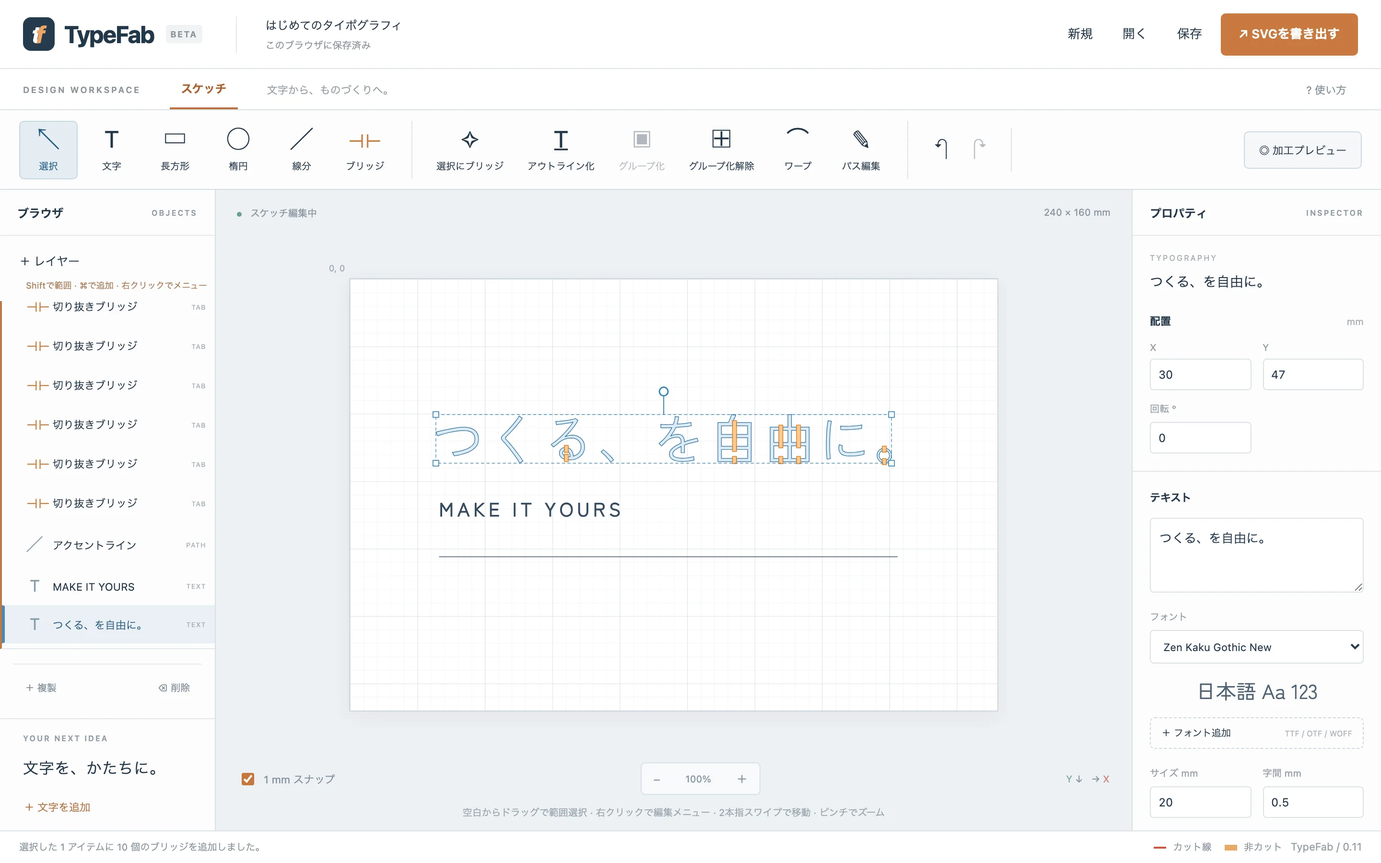
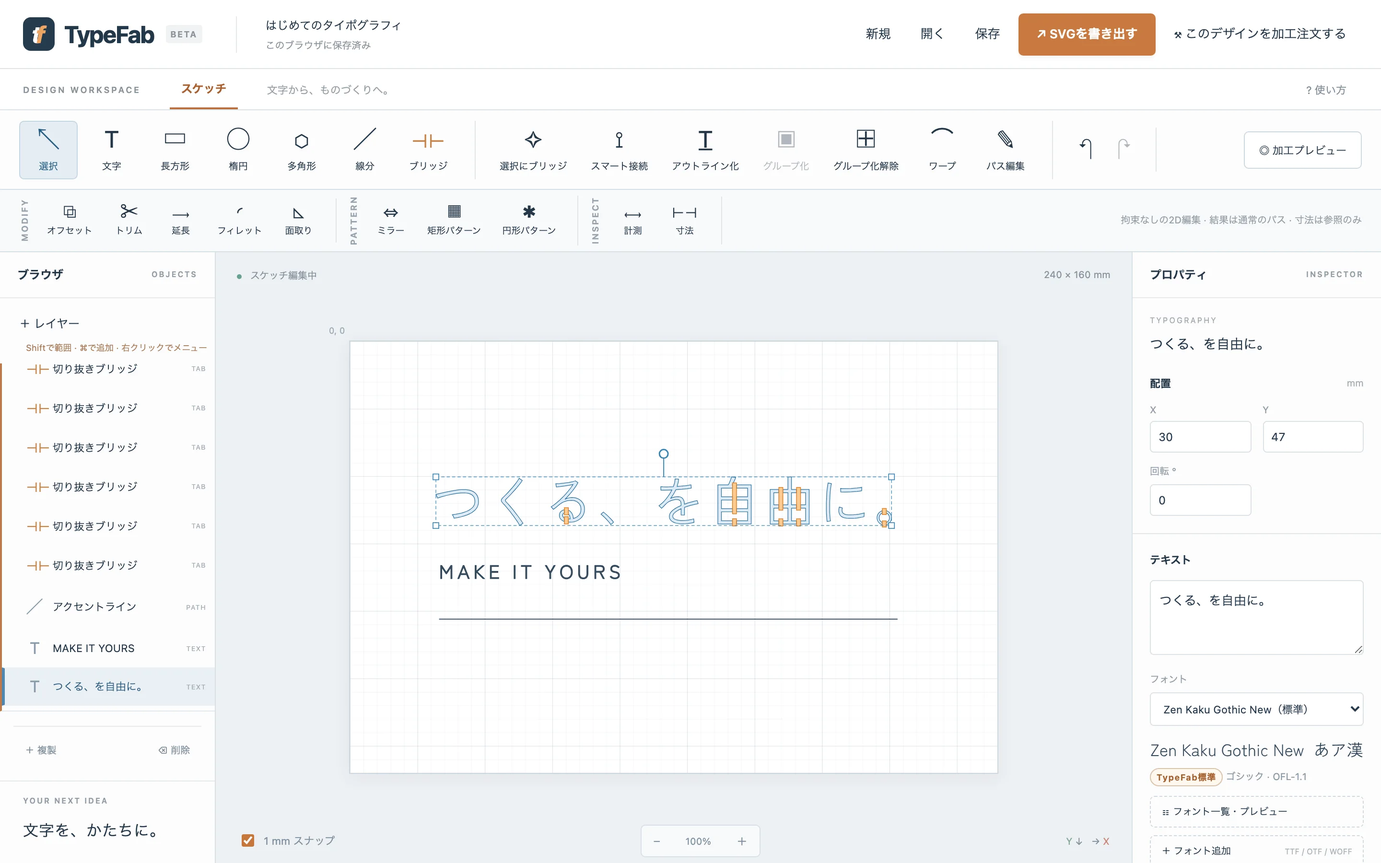
Update the landing page for fonts, Smart Connect, 2D CAD and the bookmark preview
Fresh screenshots of the current editor (two-row toolbar, font gallery,
Smart Connect and circular-pattern previews) and the order page mock-up;
new showcase tabs, workflow and footer copy; ordering stays Coming Soon.

diff --git a/index.html b/index.html
@@ -50,7 +50,7 @@
           <h1>Turn words into laser-cuttable designs.</h1>
           <p class="lede">
             <strong>文字を、切れるデザインへ。</strong>
-            入力した文字を、レーザー加工可能なSVGへ。日本語フォント、レイアウト、ブリッジ、ベクター編集まで、ブラウザだけで完結します。
+            入力した文字を、レーザー加工可能なSVGへ。日本語フォント8書体、レイアウト、ブリッジ、スマート接続、ベクター編集、2D CADまで、ブラウザだけで完結します。
           </p>
           <div class="cta-row">
             <a class="button primary" href="./app/" data-editor>TypeFabを開く <span aria-hidden="true">→</span></a>
@@ -61,9 +61,9 @@
         <div class="wrap wide">
           <figure class="window hero-window">
             <div class="window-bar"><span></span><span></span><span></span><em>fooping-tech.github.io/TypeFab/app/</em></div>
-            <img src="/landing/hero.webp" width="2880" height="1800" alt="TypeFabのエディタ画面。「つくる、を自由に。」という文字に自動ブリッジが付き、右側のプロパティでフォントとサイズを編集している" fetchpriority="high" decoding="async" />
+            <img src="/landing/hero.webp" width="2880" height="1800" alt="TypeFabのエディタ画面。「つくる、を自由に。」という文字に自動ブリッジが付き、上部に作成・ブリッジ・スマート接続・ワープ・パス編集と2D CADのツールバー、右側のプロパティでフォントを編集している" fetchpriority="high" decoding="async" />
           </figure>
-          <figcaption class="caption">実際のTypeFabの画面（Chromium・1440 px）。文字「自」「由」「る」の閉じた部分に、自動ブリッジ（オレンジ）が追加されています。</figcaption>
+          <figcaption class="caption">実際のTypeFabの画面（Chromium・1440 px、2026-09-15）。文字「自」「由」「る」の閉じた部分に自動ブリッジ（オレンジ）が追加され、2段目のツールバーに2D CADツールが並んでいます。</figcaption>
         </div>
       </section>
 
@@ -98,17 +98,19 @@
               <button role="tab" aria-selected="false" data-tab="layout">Layout</button>
               <button role="tab" aria-selected="false" data-tab="vector">Vector Editing</button>
               <button role="tab" aria-selected="false" data-tab="bridge">Bridge</button>
+              <button role="tab" aria-selected="false" data-tab="connect">Smart Connect</button>
+              <button role="tab" aria-selected="false" data-tab="cad">2D CAD</button>
               <button role="tab" aria-selected="false" data-tab="shapes">Shapes</button>
               <button role="tab" aria-selected="false" data-tab="export">SVG Export</button>
             </div>
             <div class="panels">
               <article class="panel" role="tabpanel" data-panel="text">
                 <figure class="shot"><img src="/landing/hero.webp" width="2880" height="1800" alt="文字を入力して編集しているTypeFabの画面" loading="lazy" decoding="async" /></figure>
-                <div class="panel-text"><h3>文字を打つだけ</h3><p>テキストを入力すると、その場で輪郭になります。ダブルクリックでキャンバス上の編集、サイズ・字間・長体・平体、縦書き（OpenType vert/vrt2）に対応。</p></div>
+                <div class="panel-text"><h3>文字を打つだけ</h3><p>テキストを入力すると、その場で輪郭になります。ダブルクリックでキャンバス上の編集、サイズ・字間・長体・平体、縦書き（OpenType vert/vrt2）に対応。1文字ずつ・部位ごとのグループ化解除で、文字の一部だけを動かすこともできます。</p></div>
               </article>
               <article class="panel" role="tabpanel" data-panel="fonts" hidden>
-                <figure class="shot portrait"><img src="/landing/inspector.webp" width="1040" height="2672" alt="フォント選択と文字設定のプロパティパネル" loading="lazy" decoding="async" /></figure>
-                <div class="panel-text"><h3>日本語フォントを同梱</h3><p>Zen Kaku Gothic New と しっぽり明朝 を同梱（SIL OFL）。手元の TTF / OTF / WOFF も追加できます。フォントは端末の外に送信しません。</p></div>
+                <figure class="shot portrait"><img src="/landing/fonts.webp" width="1440" height="2124" alt="フォント一覧ダイアログ。ゴシック・明朝・丸ゴシック・ディスプレイ・手書き・ドットの8書体が、それぞれ実際の字形でプレビューされている" loading="lazy" decoding="async" /></figure>
+                <div class="panel-text"><h3>日本語フォント8書体を同梱</h3><p>Zen Kaku Gothic New、しっぽり明朝、Zen Maru Gothic、Dela Gothic One、RocknRoll One、Kaisei Decol、Zen Kurenaido、DotGothic16。すべて SIL Open Font License 1.1 で、ライセンス本文を同梱しています。選んだフォントだけを読み込み、一覧は各フォントの実際の字形でプレビュー。手元の TTF / OTF / WOFF も追加できます。フォントは端末の外に送信しません。</p></div>
               </article>
               <article class="panel" role="tabpanel" data-panel="layout" hidden>
                 <figure class="shot"><img src="/landing/warp.webp" width="3820" height="2672" alt="文字にArc Upのワープを掛けているキャンバス" loading="lazy" decoding="async" /></figure>
@@ -122,9 +124,17 @@
                 <figure class="shot"><img src="/landing/bridge-sketch.webp" width="1440" height="520" alt="る・自・由の閉じた部分にオレンジ色のブリッジが付いた状態" loading="lazy" decoding="async" /></figure>
                 <div class="panel-text"><h3>ブリッジ</h3><p>「選択にブリッジ」で穴を検出し、島と外側をつなぐ帯を自動追加。手動ブリッジは任意の位置・角度で置けます。幅・高さ・回転を後から調整できます。</p></div>
               </article>
+              <article class="panel" role="tabpanel" data-panel="connect" hidden>
+                <figure class="shot"><img src="/landing/smart-connect.webp" width="2428" height="1274" alt="スマート接続のプレビュー。「つくる、を自由に。」の文字どうしがオレンジの接続形状でつながり、右側のパネルに幅・最大距離・スタイルと「部品 11 → 1」の表示" loading="lazy" decoding="async" /></figure>
+                <div class="panel-text"><h3>スマート接続</h3><p>ステンシルとは逆に、文字そのものを1枚で切り出したいときに。離れた文字や文字内の部位を接続形状でつなぎ、1つの閉じた輪郭にします。幅・最大距離、Smooth / Tapered / Rounded / Straight のスタイル、日本語の筆画方向を優先する候補選び。確定前に接続の移動・削除・追加・候補の切り替えができ、確定後は通常のパスとして編集できます。</p></div>
+              </article>
+              <article class="panel" role="tabpanel" data-panel="cad" hidden>
+                <figure class="shot"><img src="/landing/cad.webp" width="2428" height="1274" alt="円形パターンのプレビュー。六角形を中心のまわりに6個並べるゴーストが表示され、右側のパネルに中心・個数・角度の入力" loading="lazy" decoding="async" /></figure>
+                <div class="panel-text"><h3>2D CAD</h3><p>正多角形、ミラー、矩形／円形パターン、オフセット、トリム・延長、フィレット・面取り、計測、参照寸法。拘束なしの2D編集で、結果は通常のパスになります。寸法は図面上の参照のみで、SVGには出力しません。</p></div>
+              </article>
               <article class="panel" role="tabpanel" data-panel="shapes" hidden>
-                <figure class="shot strip"><img src="/landing/toolbar.webp" width="2880" height="166" alt="選択・文字・長方形・楕円・線分・ブリッジ・アウトライン化・ワープ・パス編集のツールバー" loading="lazy" decoding="async" /></figure>
-                <div class="panel-text"><h3>図形と図形演算</h3><p>長方形（フィレット付き）、楕円、線分。結合・切り抜き・交差・XOR で文字と図形を組み合わせ、1つのカット形状にします。SVGファイルの読み込みにも対応。</p></div>
+                <figure class="shot strip"><img src="/landing/toolbar.webp" width="2880" height="294" alt="選択・文字・長方形・楕円・多角形・線分・ブリッジ・スマート接続・アウトライン化・ワープ・パス編集と、オフセット・トリム・延長・フィレット・面取り・ミラー・パターン・計測・寸法のツールバー" loading="lazy" decoding="async" /></figure>
+                <div class="panel-text"><h3>図形と図形演算</h3><p>長方形（フィレット付き）、楕円、正多角形、線分。結合・切り抜き・交差・XOR で文字と図形を組み合わせ、1つのカット形状にします。SVGファイルの読み込み（path / rect / circle / ellipse / line / polyline / polygon、transform、Inkscapeレイヤー）にも対応。</p></div>
               </article>
               <article class="panel" role="tabpanel" data-panel="export" hidden>
                 <figure class="shot"><img src="/landing/preview.webp" width="3820" height="2672" alt="加工プレビューで赤いカット線を表示したキャンバス" loading="lazy" decoding="async" /></figure>
@@ -142,10 +152,10 @@
           <ol class="workflow">
             <li><span class="num">01</span><h3>TYPE</h3><p>文字を入力する</p></li>
             <li><span class="num">02</span><h3>DESIGN</h3><p>フォントを選び、レイアウトを整える</p></li>
-            <li><span class="num">03</span><h3>BRIDGE</h3><p>閉じた形をレーザーカットできる形にする</p></li>
+            <li><span class="num">03</span><h3>BRIDGE / CONNECT</h3><p>閉じた形にブリッジを付ける。文字自体を切り出すならスマート接続で一体化する</p></li>
             <li><span class="num">04</span><h3>PREVIEW</h3><p>最終的なカット線を確認する</p></li>
             <li><span class="num">05</span><h3>EXPORT</h3><p>クリーンなSVGを書き出す</p></li>
-            <li class="soon"><span class="num">06</span><h3>ORDER <span class="badge">Coming Soon</span></h3><p>そのまま加工を依頼する（注文ページは実装済み。加工サービスの提供開始まで利用できません）</p></li>
+            <li class="soon"><span class="num">06</span><h3>ORDER <span class="badge">Coming Soon</span></h3><p>そのまま加工を依頼する（注文ページは完成イメージのプレビュー付きで実装済み。加工サービスの提供開始まで決済はできません）</p></li>
           </ol>
         </div>
       </section>
@@ -161,6 +171,19 @@
             <figure class="shot"><img src="/landing/bridge-cut.webp" width="1440" height="520" alt="加工プレビュー。赤いカット線がブリッジの位置で途切れ、帯の側面を含む輪郭になっている" loading="lazy" decoding="async" /><figcaption>加工プレビュー：赤線がSVGに出力されるカット線です。</figcaption></figure>
           </div>
           <p class="fine">「切り残しなし」の検査は、閉じた輪郭にブリッジの隙間があるかを確認するものです。材料の連結性や物理的な強度を保証するものではありません。材料・厚さに応じて幅を調整し、テスト加工してください。</p>
+          <div class="two-col align connect">
+            <div>
+              <h3>ステンシルではなく、文字を切り出すなら。</h3>
+              <p class="lede">ブリッジは「文字の形に穴をあける」ための機能です。文字そのものを1枚の板として切り出したいときは、<strong>スマート接続</strong>が離れた文字や部位を接続形状でつなぎ、1つの閉じた輪郭にします。</p>
+              <ul class="feature-list">
+                <li><b>接続の候補</b> 最短距離だけでなく、画の端や向きを見て自然な位置を選びます。日本語は筆画の延長を優先</li>
+                <li><b>スタイル</b> Smooth・Tapered・Rounded・Straight を自動または手動で。幅と最大距離は数値で指定</li>
+                <li><b>確定前の調整</b> 接続の移動・両端の変更・幅・曲率・削除・次の候補・手動追加。未接続があれば確定できません</li>
+                <li><b>結果</b> 1つの固定パス。Undo 1回で元の文字に戻り、パス編集・ワープ・SVG出力はそのまま</li>
+              </ul>
+            </div>
+            <figure class="shot"><img src="/landing/smart-connect.webp" width="2428" height="1274" alt="スマート接続で「つくる、を自由に。」が10本の接続で1つの部品になったプレビュー" loading="lazy" decoding="async" /><figcaption>スマート接続：最大距離 20 mm で 11 部品が 1 つに。オレンジが追加される接続形状です。</figcaption></figure>
+          </div>
         </div>
       </section>
 
@@ -176,6 +199,7 @@
               <li><b>パス編集</b> ノードの追加・削除、直線化、SVG path d の直接編集（M L H V C S Q T A Z）</li>
               <li><b>ワープ</b> 4辺のベジェによるエンベロープ変形。Arc・Arch・Wave・Flag・Perspective など</li>
               <li><b>図形演算</b> 結合・切り抜き・交差・XOR。結果は編集できるパス</li>
+              <li><b>2D CAD</b> オフセット、トリム・延長、フィレット・面取り、ミラー、矩形／円形パターン、計測、参照寸法</li>
             </ul>
             <div class="stack">
               <figure class="shot"><img src="/landing/path.webp" width="1440" height="520" alt="パス編集モードのアンカーとハンドル" loading="lazy" decoding="async" /></figure>
@@ -199,6 +223,7 @@
               <tr><td>デザイナー</td><td>展示用の切り文字、モックアップ</td><td>アクリル 3 mm</td></tr>
               <tr><td>学校・教育</td><td>日本語タイポグラフィの教材、表札づくり</td><td>MDF 2.5 mm</td></tr>
               <tr><td>ワークショップ主催者</td><td>参加者ごとの文字入りキット</td><td>MDF、革</td></tr>
+              <tr><td>本が好きな人</td><td>名前や一節を切り抜いた文庫本のしおり</td><td>黒クラフトペーパー、革</td></tr>
               <tr><td>小さな加工事業者</td><td>注文に応じた文字パーツの量産データ</td><td>用途に応じて</td></tr>
             </tbody>
           </table>
@@ -214,7 +239,14 @@
             <li>DESIGN</li><li>SVG</li><li class="soon">ORDER</li><li class="soon">LASER CUT</li><li class="soon">SHIP</li>
           </ol>
           <p class="lede">TypeFabで作ったデザインをそのまま加工注文し、切り出した板を受け取れる流れを準備しています。エディタの「このデザインを加工注文する」から注文ページ（SVGの確認・材料・厚さ・数量・納期・料金・Stripe決済）へ進めますが、<strong>加工サービスの提供開始まで決済はできません。</strong>それまではSVGを書き出し、お手持ちの加工機や加工サービスで切り出してください。</p>
-          <div class="cta-row"><a class="button ghost" href="./order/" data-order>注文ページを見る（プレビュー）</a></div>
+          <div class="two-col align">
+            <figure class="shot portrait"><img src="/landing/bookmark.webp" width="826" height="1612" alt="注文ページの完成イメージ。黒いクラフトペーパーのしおりが文庫本に挟まれ、上部 20 mm が見えている。単体・本に挟む・サイズ比較のタブと、文庫本 105 × 148 mm・しおり 50 × 148 mm の寸法" loading="lazy" decoding="async" /><figcaption>注文ページの完成イメージ（本に挟む）。切断線から求めた形を黒クラフトペーパー風に描いた目安です。</figcaption></figure>
+            <div>
+              <h3>注文前に、使うところまで想像できる。</h3>
+              <p class="lede">注文ページでは、SVGの検査と概算に加えて、黒いクラフトペーパーで作るしおりの<strong>完成イメージ</strong>を確認できます。単体、105 × 148 mm の文庫本に挟んだ状態（上部 20 mm）、同じ縮尺でのサイズ比較を実寸比率で描き、幅 50 mm 超や長さ 90 mm 未満・160 mm 超には注意を表示します。</p>
+              <div class="cta-row"><a class="button ghost" href="./order/" data-order>注文ページを見る（プレビュー）</a></div>
+            </div>
+          </div>
         </div>
       </section>
 
@@ -245,7 +277,7 @@
       <div class="wrap foot-inner">
         <span>TypeFab · 文字を、かたちに。</span>
         <nav aria-label="フッター"><a href="./app/" data-editor>Editor</a><a href="https://github.com/fooping-tech/TypeFab" rel="noopener">GitHub</a><a href="https://github.com/fooping-tech/TypeFab/blob/main/README.md" rel="noopener">README</a></nav>
-        <small>同梱フォント Zen Kaku Gothic New / Shippori Mincho は SIL Open Font License 1.1。</small>
+        <small>同梱フォント8書体（Zen Kaku Gothic New、しっぽり明朝、Zen Maru Gothic、Dela Gothic One、RocknRoll One、Kaisei Decol、Zen Kurenaido、DotGothic16）はすべて SIL Open Font License 1.1。</small>
       </div>
     </footer>
     <script type="module" src="/src/landing.js"></script>

diff --git a/tests/landing.test.js b/tests/landing.test.js
@@ -59,6 +59,23 @@ test("landing page HTML has the required SEO metadata, CTA and Coming Soon label
   assert.ok(fs.existsSync("public/landing/og.png"));
 });
 
+test("landing page describes the current feature set: 8 fonts, Smart Connect, 2D CAD, bookmark mock-up", () => {
+  const html = fs.readFileSync("index.html", "utf8");
+  for (const tab of ["text", "fonts", "layout", "vector", "bridge", "connect", "cad", "shapes", "export"]) {
+    assert.match(html, new RegExp(`data-tab="${tab}"`), tab);
+    assert.match(html, new RegExp(`data-panel="${tab}"`), tab);
+  }
+  assert.match(html, /日本語フォント8書体/);
+  for (const name of ["Zen Kaku Gothic New", "しっぽり明朝", "Zen Maru Gothic", "Dela Gothic One", "RocknRoll One", "Kaisei Decol", "Zen Kurenaido", "DotGothic16"])
+    assert.ok(html.includes(name), name);
+  assert.match(html, /スマート接続/);
+  assert.match(html, /2D CAD/);
+  assert.match(html, /完成イメージ/);
+  for (const img of ["smart-connect.webp", "cad.webp", "fonts.webp", "bookmark.webp", "toolbar.webp"]) assert.ok(html.includes(`/landing/${img}`), img);
+  // No stale references to removed screenshots.
+  assert.doesNotMatch(html, /inspector\.webp/);
+});
+
 test("Vite config builds both pages under the /TypeFab/ base", async () => {
   const config = (await import("../vite.config.js")).default;
   assert.equal(config.base, "/TypeFab/");

diff --git a/src/landing.css b/src/landing.css
@@ -439,6 +439,15 @@ button:focus-visible {
   border-color: var(--line-2);
   color: var(--text);
 }
+.connect {
+  margin-top: 48px;
+  padding-top: 40px;
+  border-top: 1px solid var(--line);
+}
+.connect h3 {
+  font-size: 24px;
+  margin: 0 0 12px;
+}
 .panel[hidden] {
   display: none;
 }

diff --git a/PLANS.md b/PLANS.md
@@ -445,3 +445,16 @@
 - 実ブラウザ（Chromium、production preview、Playwright 35項目）: エディタ受け渡し SVG で表示、既定タブ、105×148 の本、情報欄、SVG実寸の別表示、2D プレビューと料金の維持、タブ切替と `aria-labelledby`、単体の質感フィルタと evenodd、サイズ比較の画面上の幅比 = 38/105（0.3619）、矢印・Home キー、60×180（幅広＋はみ出し警告、下部はみ出し 12 mm、注文検査は不変）、20×80（短い警告のみ）、50×148（警告なし）、横長 118×36（回転トグル既定 ON、OFF で警告2件）、px SVG（案内表示・タブ無効・描画なし → 38 mm 適用で 38×120 を表示）、script 入り SVG（拒否・非表示）、文字のみ（非表示）、iPad 820px / iPhone 390px（横スクロールなし、タブ高さ 40/44 px、シーン幅）、console error なし。WebKit でも描画・console error なし。スクリーンショットで Desktop / iPad / iPhone の見た目を確認。
 - 既知事項: TypeFab の自動ブリッジ（ステンシル）の「A」頂点付近に細い切れ端が出るのは既存の書き出し形状で、プレビューはそれを忠実に描く。太い画（ブリッジ幅の約4倍超）の隙間式ブリッジでは接続部を描かず穴を閉じた形になる場合がある。文庫本サイズ・上部表示量は固定で、本の厚さは考慮しない。実物の紙色・表面・加工結果は未検証。
 - 公開: コミット `ab9c814` を `main` へ push。Actions https://github.com/fooping-tech/TypeFab/actions/runs/34973188598 は success。`https://fooping-tech.github.io/TypeFab/` と `/order/` が HTTP 200 を返し、公開ページに完成イメージのタブが含まれることを確認（2026-09-15）。
+
+## 紹介ページを最新仕様に更新（2026-09-15）
+
+### 要求
+- 紹介ページ（`index.html`、`src/landing.js`、`src/landing.css`、`public/landing/`）を、Issue #3〜#7 で追加された機能（同梱フォント8書体・遅延読み込み・フォント一覧、2D CAD、スマート接続、注文ページのしおり完成イメージ）に合わせて更新する。画面写真は実際の製品出力のみを使う。加工注文は加工サービス未提供のため Coming Soon のまま。
+- 完了条件: 既存テスト・新規テスト・ビルド成功、Desktop / iPad / iPhone の実ブラウザで画像の読み込み・タブ・横スクロールなし・console error なしを確認、GitHub Pages に反映して確認。
+
+### 実装結果（2026-09-15）
+- `index.html`: ヒーローの説明文に「日本語フォント8書体・スマート接続・2D CAD」を追加し、画面写真を現在のUI（2段目の2D CADツールバー、フォントプレビュー付きのプロパティ）で撮り直し。機能タブを Text / Japanese Fonts / Layout / Vector Editing / Bridge / **Smart Connect** / **2D CAD** / Shapes / SVG Export の9つに拡張（Japanese Fonts はフォント一覧ダイアログの写真と8書体の列挙・OFL 1.1、Smart Connect はプレビュー画面、2D CAD は円形パターンのプレビュー、Shapes は2段のツールバーとSVG読み込み対応要素）。ワークフロー 03 を「BRIDGE / CONNECT」、06 の説明を「完成イメージのプレビュー付きで実装済み、決済は提供開始まで不可」に変更（Coming Soon 表示は維持）。ブリッジ節に「ステンシルではなく、文字を切り出すなら」（スマート接続との使い分け・候補・スタイル・確定前調整・結果）を追加。ベクター編集一覧に 2D CAD、想定利用者の表に「本が好きな人 / 文庫本のしおり / 黒クラフトペーパー、革」を追加。「FROM BROWSER TO PHYSICAL OBJECT」節に注文ページの完成イメージ（本に挟む）の写真と説明を追加。フッターの書体表記を8書体に更新。`src/landing.css` に `.connect` を追加。
+- 画面写真（`public/landing/`）: `hero.webp`（2880×1800）、`toolbar.webp`（2880×294、2段）、`fonts.webp`（フォント一覧ダイアログ）、`smart-connect.webp`（最大距離 20 mm、部品 11 → 1）、`cad.webp`（六角形の円形パターン 6 個のプレビュー）、`bookmark.webp`（注文ページの完成イメージ）、`og.png`（1440×756 のヒーローを 1200×630 に縮小）を本番ビルドの `vite preview` を Playwright で操作して撮影（cwebp q84）。`inspector.webp` は削除。`bridge-*.webp`・`warp.webp`・`path.webp`・`preview.webp` はキャンバスの拡大で現状と変わらないため据え置き。
+- テスト: `tests/landing.test.js` に「8書体・Smart Connect・2D CAD・完成イメージ・新しい画像参照・削除した画像を参照しない」の1件を追加。`npm test`: 176 passed。`npm run build` 成功。
+- 実ブラウザ（本番ビルドの preview、Chromium 1440×900 / 1024×1366 / 390×844、WebKit 390×844、68項目）: タイトル、横スクロールなし、9タブすべて表示と画像読み込み、全16画像の読み込み、しおり・スマート接続の図、Coming Soon 表示の維持、エディタCTA、console error / warning なし、失敗リクエストなし — すべて通過。Desktop / iPhone のスクリーンショットで新節の見た目を確認。
+- 気づき: エディタを Playwright で操作中（スマート接続の最大距離入力→change 送出、または CAD ツールのクリック）に1回 `NotFoundError: Failed to set the 'innerHTML' property ... moved in a 'blur' event handler` の page error が出た。紹介ページとは無関係のエディタ側の事象で、手動操作での再現は未確認。今回は対応していない。

diff --git a/README.md b/README.md
@@ -342,6 +342,8 @@ Stripeのテストモードでは `stripe listen --forward-to 127.0.0.1:8787/api
 
 https://fooping-tech.github.io/TypeFab/ はプロダクト紹介ページ（`index.html`、`src/landing.js`、`src/landing.css`）、エディタは https://fooping-tech.github.io/TypeFab/app/ （`app/index.html`）です。画面写真は `public/landing/` にある実際のエディタのスクリーンショット、Before / After の図は `scripts/landing-glyphs.mjs` が同梱フォントと `src/geometry.js` から生成した実際の輪郭と自動ブリッジ（`src/landing-glyphs.js`）です。フォントを更新したら `node scripts/landing-glyphs.mjs` で再生成してください。
 
+紹介ページの内容は 2026-09-15 に最新の仕様（同梱フォント8書体、スマート接続、2D CAD、注文ページのしおり完成イメージ）に合わせて更新し、画面写真（`hero.webp`・`toolbar.webp`・`fonts.webp`・`smart-connect.webp`・`cad.webp`・`bookmark.webp`・`og.png`）は本番ビルド（`npm run build` → `npx vite preview`）を Playwright で操作して撮り直したものです。機能を追加したら、同じ手順で該当する画面写真と本文を更新してください。
+
 以前の `/TypeFab/` はエディタでしたが、Issue #2 の Phase 2 で `/` を紹介ページ、`/app/` をエディタに切り替えました。ブラウザの自動保存はオリジン単位なので、以前のURLで編集していたデザインは `/app/` でそのまま復元されます。編集中のデータがあるブラウザで紹介ページを開くと、`/app/` への案内を表示します。ページの配置は `vite.config.js` の `rollupOptions.input` と `src/landing.js` の `EDITOR_URL` で決まります。加工注文の機能は実装済みですが、加工サービス側（Cloudflare Workers / Stripe）の設定が完了するまで公開サイトでは決済できないため、ページ上では Coming Soon と表示しています。
 
 ## GitHub Pages
